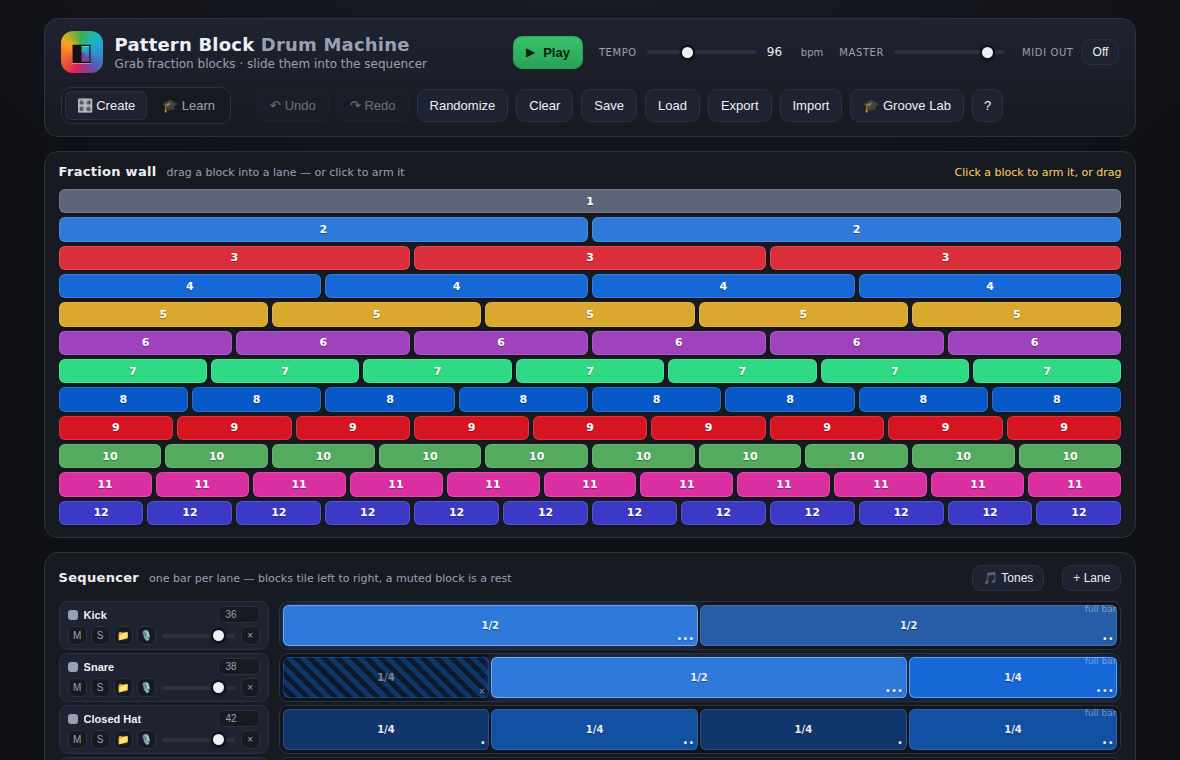
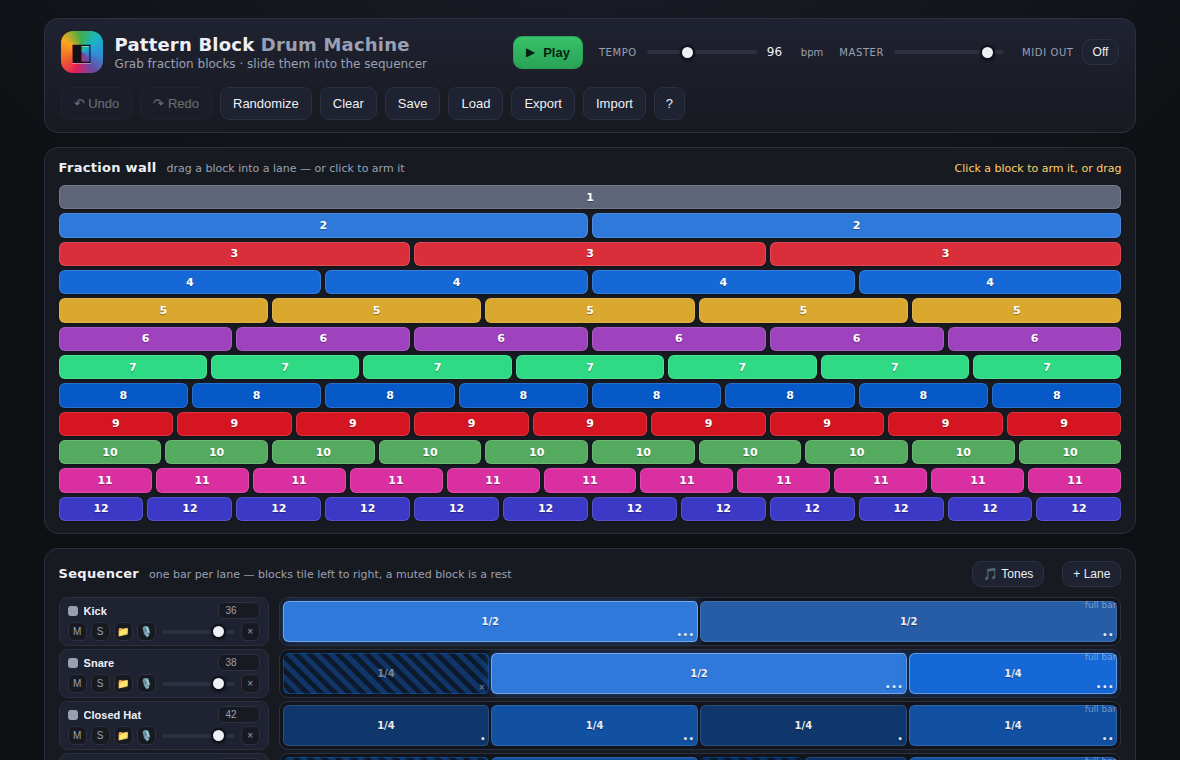
Split into two entry points: plain sampler vs. a separate Learn URL
index.html (no query) is now a clean, standalone sampler with zero trace
of Learn mode — no Create/Learn toggle, no Groove Lab button, no mention
in the Help modal. Verified: document.body.innerText contains no "Learn"
anywhere, including with the Help modal open.

learn.html is a new, genuinely separate URL: a tiny redirect stub (JS
location.replace, meta-refresh fallback) to index.html?mode=learn. That
query param is what actually drives the behaviour client-side, so there's
no duplicated markup between the two pages — one canonical index.html/
app.js stays the single source of truth. Loading the learn URL boots
straight into lesson 1, and reveals the mode toggle, Groove Lab button
and Help entries plus a new "← Sampler" link that navigates back to the
plain index.html (a real page load, not just a state switch) so the
sampler URL stays completely separate.

Cache-bust bumped to v=19.

Claude-Session: https://claude.ai/code/session_01JLy3ZtVPaGqb343nudpiEm

diff --git a/index.html b/index.html
@@ -5,7 +5,7 @@
   <meta name="viewport" content="width=device-width, initial-scale=1.0" />
   <title>Pattern Block Drum Machine</title>
   <meta name="description" content="Grab fraction blocks from the wall and slide them into a sampler sequencer. Rotate block faces for dynamics, subdivide beats." />
-  <link rel="stylesheet" href="styles.css?v=18" />
+  <link rel="stylesheet" href="styles.css?v=19" />
 </head>
 <body>
   <div id="app">
@@ -41,7 +41,9 @@
         </div>
       </div>
 
-      <div class="mode-toggle" role="tablist" aria-label="Mode">
+      <a id="backToMain" class="btn back-link" href="index.html" title="Leave the tutorial and go to the plain sampler" hidden>← Sampler</a>
+
+      <div class="mode-toggle" role="tablist" aria-label="Mode" hidden>
         <button id="modeCreate" class="mode-btn active" data-mode="create" title="Free play — build patterns, no restrictions">🎛 Create</button>
         <button id="modeLearn" class="mode-btn" data-mode="learn" title="Guided tutorial — build grooves and feel how rhythms line up">🎓 Learn</button>
       </div>
@@ -55,7 +57,7 @@
         <button id="load" class="btn" title="Load last save">Load</button>
         <button id="export" class="btn" title="Download pattern as JSON">Export</button>
         <button id="import" class="btn" title="Import a pattern JSON">Import</button>
-        <button id="grooveLabBtn" class="btn" title="Open the Groove Lab (works in any mode)">🎓 Groove Lab</button>
+        <button id="grooveLabBtn" class="btn" title="Open the Groove Lab (works in any mode)" hidden>🎓 Groove Lab</button>
         <button id="help" class="btn btn-ghost" title="How it works">?</button>
       </div>
     </header>
@@ -158,11 +160,11 @@
         <li><strong>Mix</strong> — <em>M</em> mutes a lane, <em>S</em> solos it, the slider sets its level.</li>
         <li><strong>🎵 Tones</strong> — flip <em>Tones</em> on to hear your beat as pitched notes instead of drums;
           lanes are stacked on a scale so hits that land together make chords.</li>
-        <li><strong>🎓 Learn mode</strong> — a guided tutorial: it walks you through building a polyrhythm and then
+        <li class="help-learn" hidden><strong>🎓 Learn mode</strong> — a guided tutorial: it walks you through building a polyrhythm and then
           cutting the pieces until both lanes share a grid, discovering the LCM by ear and eye. In Learn mode a lane
           stays silent until it makes a full bar, and cutting a block mutes the new pieces so the groove is preserved
           while the grid is revealed. <em>Create</em> mode is the free-play sampler with no rules.</li>
-        <li><strong>🎓 Groove Lab</strong> — a popout (button in the toolbar) for any two numbers: their HCF and LCM,
+        <li class="help-learn" hidden><strong>🎓 Groove Lab</strong> — a popout (button in the toolbar) for any two numbers: their HCF and LCM,
           how "funky" their polyrhythm is, played as a rhythm, and heard as a just-intonation interval (7-limit and
           up, so septimal steps like <em>7/6</em> get a real name).</li>
       </ul>
@@ -236,6 +238,6 @@
   <input id="fileInput" type="file" accept="audio/*" hidden />
   <input id="jsonInput" type="file" accept="application/json,.json" hidden />
 
-  <script src="app.js?v=18"></script>
+  <script src="app.js?v=19"></script>
 </body>
 </html>

diff --git a/learn.html b/learn.html
@@ -1,0 +1,21 @@
+<!DOCTYPE html>
+<html lang="en">
+<head>
+  <meta charset="UTF-8" />
+  <meta name="viewport" content="width=device-width, initial-scale=1.0" />
+  <title>Pattern Block Drum Machine — Learn</title>
+  <meta name="description" content="A guided tutorial for the Pattern Block Drum Machine: build polyrhythms and feel how rhythms line up." />
+  <meta http-equiv="refresh" content="0; url=index.html?mode=learn" />
+  <script>location.replace('index.html?mode=learn');</script>
+  <style>
+    body { margin: 0; min-height: 100vh; display: grid; place-items: center; background: #0f1014; color: #eef0f6;
+      font-family: "Segoe UI", system-ui, -apple-system, Roboto, Helvetica, Arial, sans-serif; }
+    a { color: #ffd166; }
+  </style>
+</head>
+<body>
+  <noscript>
+    <p>Loading the tutorial… if nothing happens, <a href="index.html?mode=learn">click here</a>.</p>
+  </noscript>
+</body>
+</html>

diff --git a/app.js b/app.js
@@ -1849,6 +1849,19 @@ function init() {
   wireControls();
   renderTutorial();
   refreshMidiUI();
+
+  // The plain sampler (index.html, no query) shows no trace of Learn mode —
+  // no toggle, no Groove Lab, no mention in Help. Arriving via ?mode=learn
+  // (learn.html redirects here) reveals all of that and boots straight into
+  // the tutorial, with a link back to the clean sampler URL.
+  if (new URLSearchParams(location.search).get('mode') === 'learn') {
+    $('#backToMain').hidden = false;
+    $('.mode-toggle').hidden = false;
+    $('#grooveLabBtn').hidden = false;
+    document.querySelectorAll('.help-learn').forEach((el) => { el.hidden = false; });
+    setMode('learn');
+  }
+
   requestAnimationFrame(tickPlayhead);
 }
 document.addEventListener('DOMContentLoaded', init);

diff --git a/styles.css b/styles.css
@@ -63,6 +63,8 @@ main { display: flex; flex-direction: column; gap: 14px; }
 .transport { display: flex; align-items: center; gap: 16px; flex-wrap: wrap; }
 .tools { display: flex; align-items: center; gap: 8px; flex-wrap: wrap; }
 
+.back-link { text-decoration: none; display: inline-flex; align-items: center; }
+
 .mode-toggle {
   display: flex; gap: 3px; padding: 3px; background: var(--panel); border: 1px solid var(--line);
   border-radius: 10px; margin-right: 4px;

diff --git a/README.md b/README.md
@@ -17,6 +17,10 @@ block's colour is always the same on the wall and in a lane.
 
 ![fraction wall + sequencer](docs/screenshot.png)
 
+Two pages: **`index.html`** is the plain sampler above. **`learn.html`** is a
+guided tutorial that builds on the same engine — see [Learn mode](#-learn-mode)
+below.
+
 ## Run it
 
 It's a single static page — no build step, no dependencies.
@@ -85,10 +89,18 @@ rhythm.
 
 ![The tutorial and Groove Lab in Learn mode](docs/learn-mode.png)
 
-Switch modes in the header. **Create** is the free-play sampler above, with no
-rules. **Learn** turns the app into a guided **tutorial** — and it *remembers*
-your Create pattern, resetting the board for the lessons and handing it back when
-you switch out. It's a set of lessons you can step through or jump between:
+The plain sampler above (`index.html`) never mentions Learn mode at all — it's
+a clean, standalone drum machine. The tutorial lives at its own URL,
+**`learn.html`**, which drops you straight into lesson 1 and adds a **← Sampler**
+link back to the plain page, plus the Create/Learn toggle so you can switch
+freely once you're there. (Under the hood `learn.html` just redirects to
+`index.html?mode=learn`, which is what actually decides what to show — no
+duplicated markup between the two.)
+
+**Create** is the free-play sampler, no rules. **Learn** turns the app into a
+guided **tutorial** — and it *remembers* your Create pattern, resetting the
+board for the lessons and handing it back when you switch out. It's a set of
+lessons you can step through or jump between:
 
 The lessons never do the maths *for* you — they're all feel and trial-and-error.
 You build grooves, then **cut the pieces until the lanes line up**, discovering
